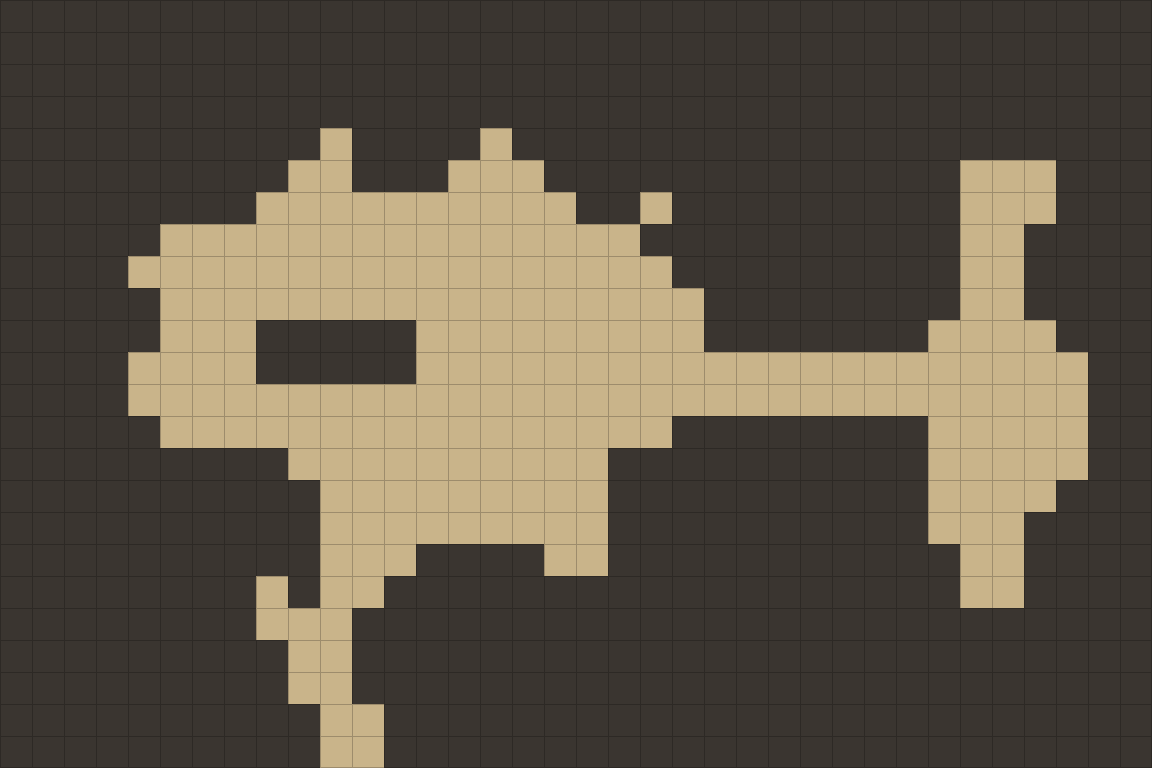
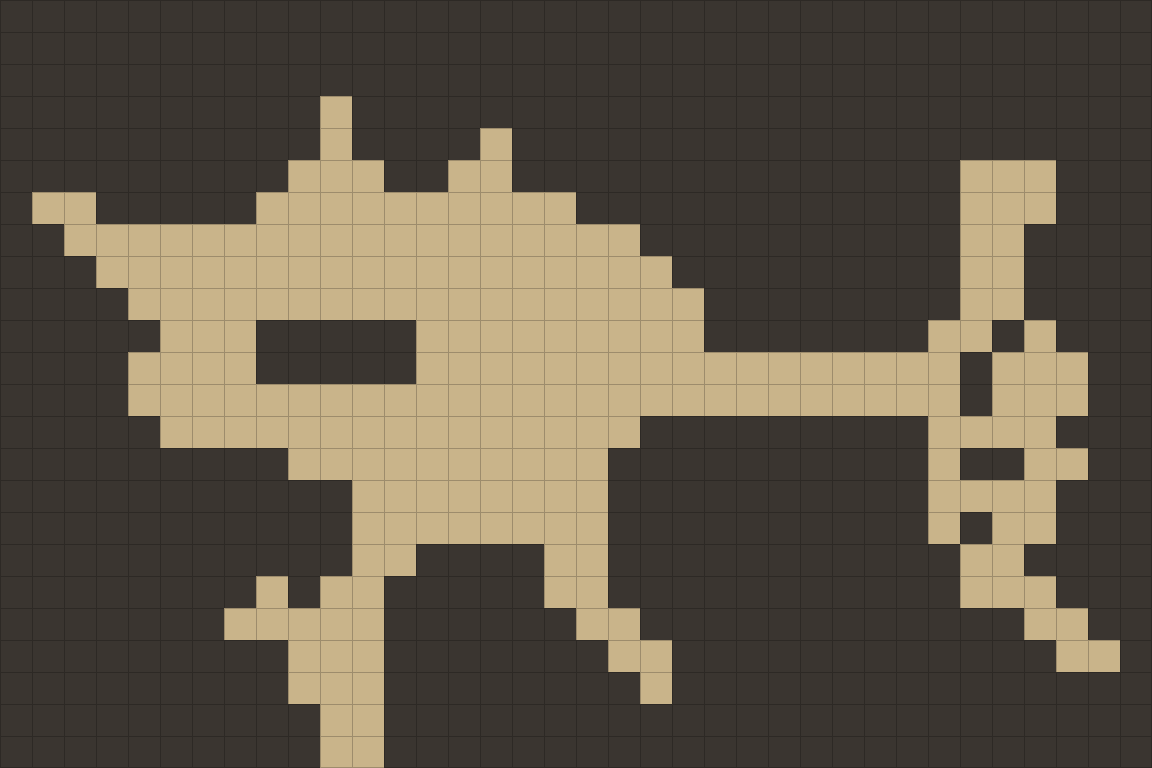
Retrace the riverside footprint against its painting (R1)
Open painted sand the grid blocked, block the cells painted solids stand
on, drop the unreachable flowerbed, and make the whole south path the exit
mouth so the riverside can enforce the edge contract. Regenerate the
riverside prompt pack from the new rows.

diff --git a/src/content/maps/riverside.ts b/src/content/maps/riverside.ts
@@ -17,65 +17,77 @@ export const RIVERSIDE_SPOTS = {
 // Ground footprints, not canopy silhouettes: the shaded lane west of the
 // banyan is open. Only its trunk/stone planter blocks passage. Coordinates
 // refer to tile centres, the same points used by feet and pointer targeting.
+// A painted solid stands on its base cell, so the practice posts, the lantern,
+// the rock and the trunk on the east bank each block one tile (R1 audit).
 const spans: readonly (readonly (readonly [number, number])[])[] = [
   [],
   [],
   [],
-  [],
+  [[10, 10]],
   [
     [10, 10],
     [15, 15],
   ],
+  // (16,5) is the garden fence in front of the north-east house.
   [
-    [9, 10],
-    [14, 16],
+    [9, 11],
+    [14, 15],
     [30, 32],
   ],
+  // The sand lane west of the square runs up to the trees at (0,6).
   [
+    [1, 2],
     [8, 17],
-    [20, 20],
     [30, 32],
   ],
   [
-    [5, 19],
+    [2, 19],
     [30, 31],
   ],
   [
-    [4, 20],
+    [3, 20],
     [30, 31],
   ],
   [
-    [5, 21],
+    [4, 21],
     [30, 31],
   ],
   [
     [5, 7],
     [13, 21],
-    [29, 32],
+    [29, 30],
+    [32, 32],
   ],
   [
     [4, 7],
-    [13, 33],
-  ],
-  [[4, 33]],
-  [
-    [5, 20],
-    [29, 33],
+    [13, 29],
+    [31, 33],
   ],
   [
-    [9, 18],
-    [29, 33],
+    [4, 29],
+    [31, 33],
   ],
   [
-    [10, 18],
+    [5, 19],
     [29, 32],
   ],
   [
-    [10, 18],
-    [29, 31],
+    [9, 18],
+    [29, 29],
+    [32, 33],
+  ],
+  // (10,15..17) is the tea garden's hedge and fence.
+  [
+    [11, 18],
+    [29, 32],
   ],
   [
-    [10, 12],
+    [11, 18],
+    [29, 29],
+    [31, 32],
+  ],
+  [
+    [11, 12],
     [17, 18],
     [30, 31],
   ],
@@ -83,11 +95,23 @@ const spans: readonly (readonly (readonly [number, number])[])[] = [
   [
     [8, 8],
     [10, 11],
-    [30, 31],
+    [17, 18],
+    [30, 32],
   ],
-  [[8, 10]],
-  [[9, 10]],
-  [[9, 10]],
+  [
+    [7, 11],
+    [18, 19],
+    [32, 33],
+  ],
+  [
+    [9, 11],
+    [19, 20],
+    [33, 34],
+  ],
+  [
+    [9, 11],
+    [20, 20],
+  ],
   [[10, 11]],
   [[10, 11]],
 ];
@@ -157,4 +181,8 @@ export const RIVERSIDE: MapDef = {
   ],
   props: [],
   restSpots: [{ pos: RIVERSIDE_SPOTS.tea, label: 'the tea porch' }],
+  // The south path is the only walkable ground on the rim; every cell of it
+  // belongs to the exit mouth in `connectAct1`.
+  edges: [{ side: 'south', span: [10, 11], treatment: 'exit' }],
+  edgeContract: 'enforce',
 };

diff --git a/src/content/riverside.test.ts b/src/content/riverside.test.ts
@@ -2,7 +2,7 @@ import { describe, expect, it } from 'vitest';
 import { CONTENT, CONTENT_BUNDLE } from './index';
 import { npcStandTiles } from './schemas';
 import { RIVERSIDE, RIVERSIDE_ENTRY, RIVERSIDE_SPOTS } from './maps/riverside';
-import { buildGrid, findPath } from '../core/rules/grid';
+import { buildGrid, findPath, tileAt } from '../core/rules/grid';
 import { createGame } from '../core/state/createGame';
 import { apply } from '../core/state/reducer';
 
@@ -93,6 +93,53 @@ describe('the riverside paths', () => {
       expect(result.state.location.pos).toEqual(pos);
       state = result.state;
     }
+  });
+  it('matches the painting: open sand is walkable and painted solids block (R1 audit)', () => {
+    const walkable = (x: number, y: number) => tileAt(grid, { x, y })?.blocked === false;
+    // The west lane, the path north of the square, the south path beside the
+    // exit, the sand pocket south of the square and the south-east bank path.
+    for (const [x, y] of [
+      [1, 6],
+      [3, 8],
+      [4, 9],
+      [10, 3],
+      [11, 5],
+      [11, 20],
+      [18, 19],
+      [20, 21],
+      [32, 18],
+      [34, 20],
+    ] as const) {
+      expect(walkable(x, y), `(${x},${y})`).toBe(true);
+    }
+    // The flowerbed island, garden fences, the rocky bank, the practice posts,
+    // and the lantern, rock and trunk on the lower east-bank lane.
+    for (const [x, y] of [
+      [20, 6],
+      [16, 5],
+      [10, 16],
+      [20, 13],
+      [31, 10],
+      [30, 11],
+      [30, 12],
+      [33, 13],
+      [30, 14],
+      [31, 14],
+      [30, 16],
+    ] as const) {
+      expect(walkable(x, y), `(${x},${y})`).toBe(false);
+    }
+  });
+  it('leaves by any cell of the south path, never by an invisible edge', () => {
+    const exit = CONTENT.maps.get(RIVERSIDE.id)?.exits?.[0];
+    const area = new Set((exit?.area ?? []).map((cell) => `${cell.x},${cell.y}`));
+    for (let y = 20; y < RIVERSIDE.height; y++) {
+      for (let x = 9; x <= 11; x++) {
+        if (tileAt(grid, { x, y })?.blocked === false)
+          expect(area.has(`${x},${y}`), `(${x},${y})`).toBe(true);
+      }
+    }
+    expect(area.has('10,19')).toBe(false);
   });
   it('returns from the shrine to the same bank, with the discovery recorded', () => {
     let state = apply(CONTENT, start(), { type: 'walkTo', pos: RIVERSIDE_SPOTS.shrine }).state;

diff --git a/src/content/maps/world.ts b/src/content/maps/world.ts
@@ -100,10 +100,12 @@ export function connectAct1(map: MapDef): MapDef {
             'ba_dan_village',
             { x: 18, y: 14 },
             'South path → Ba Dan Village',
+            // The south path from row 20 to the rim: it leaves with no tile to miss.
             [
               { x: 10, y: 20 },
-              { x: 9, y: 20 },
-              { x: 9, y: 21 },
+              ...mouth(9, [20, 21]),
+              ...mouth(10, [21, 22, 23]),
+              ...mouth(11, [20, 21, 22, 23]),
             ],
           ),
         ],

diff --git a/docs/art/prompts/maps/ba_dan_riverside.md b/docs/art/prompts/maps/ba_dan_riverside.md
@@ -18,8 +18,8 @@ The riverside neighborhood of Ba Dan, a quiet afternoon beyond the village.
 
 36 columns by 24 rows, counted from 0 at the top-left corner. The painting is the ground and what stands on it, nothing else: the game draws its own grid, movement contours, units, props and effects over it, so every edge in the painting that matters to the rules sits exactly on a tile edge.
 
-- Road (234 tiles): 233 tiles (the centre), row 4: columns 10 and 15; row 5: columns 9–10, 14–16 and 30–32; row 6: columns 8–17 and 30–32; row 7: columns 5–19 and 30–31; row 8: columns 4–20 and 30–31; row 9: columns 5–21 and 30–31; row 10: columns 5–7, 13–21 and 29–32; row 11: columns 4–7 and 13–33; row 12: columns 4–33; row 13: columns 5–20 and 29–33; row 14: columns 9–18 and 29–33; row 15: columns 10–18 and 29–32; row 16: columns 10–18 and 29–31; row 17: columns 10–12, 17–18 and 30–31; row 18: columns 8, 10–11 and 30–31; row 19: columns 8–10; rows 20–21: columns 9–10; rows 22–23: columns 10–11; one tile at column 20, row 6 (top centre).
-- Stone walls (630 tiles): 620 tiles (the centre), rows 0–3: columns 0–35; row 4: columns 0–9, 11–14 and 16–35; row 5: columns 0–8, 11–13, 17–29 and 33–35; row 6: columns 0–7, 18–19, 21–29 and 33–35; row 7: columns 0–4, 20–29 and 32–35; row 8: columns 0–3, 21–29 and 32–35; row 9: columns 0–4, 22–29 and 32–35; row 10: columns 0–4, 22–28 and 33–35; rows 11–12: columns 0–3 and 34–35; row 13: columns 0–4, 21–28 and 34–35; row 14: columns 0–8, 19–28 and 34–35; row 15: columns 0–9, 19–28 and 33–35; row 16: columns 0–9, 19–28 and 32–35; row 17: columns 0–9, 13–16, 19–29 and 32–35; row 18: columns 0–7, 9, 12–29 and 32–35; row 19: columns 0–7 and 11–35; rows 20–21: columns 0–8 and 11–35; rows 22–23: columns 0–9 and 12–35; a 5×2 block at columns 8–12, rows 10–11 (middle left).
+- Road (247 tiles): 247 tiles (the centre), row 3: column 10; row 4: columns 10 and 15; row 5: columns 9–11, 14–15 and 30–32; row 6: columns 1–2, 8–17 and 30–32; row 7: columns 2–19 and 30–31; row 8: columns 3–20 and 30–31; row 9: columns 4–21 and 30–31; row 10: columns 5–7, 13–21, 29–30 and 32; row 11: columns 4–7, 13–29 and 31–33; row 12: columns 4–29 and 31–33; row 13: columns 5–19 and 29–32; row 14: columns 9–18, 29 and 32–33; row 15: columns 11–18 and 29–32; row 16: columns 11–18, 29 and 31–32; row 17: columns 11–12, 17–18 and 30–31; row 18: columns 8, 10–11, 17–18 and 30–32; row 19: columns 7–11, 18–19 and 32–33; row 20: columns 9–11, 19–20 and 33–34; row 21: columns 9–11 and 20; rows 22–23: columns 10–11.
+- Stone walls (617 tiles): 601 tiles (the centre), rows 0–2: columns 0–35; row 3: columns 0–9 and 11–35; row 4: columns 0–9, 11–14 and 16–35; row 5: columns 0–8, 12–13, 16–29 and 33–35; row 6: columns 0, 3–7, 18–29 and 33–35; row 7: columns 0–1, 20–29 and 32–35; row 8: columns 0–2, 21–29 and 32–35; row 9: columns 0–3, 22–29 and 32–35; row 10: columns 0–4, 22–28 and 33–35; rows 11–12: columns 0–3 and 34–35; row 13: columns 0–4, 20–28 and 33–35; row 14: columns 0–8, 19–28 and 34–35; rows 15–16: columns 0–10, 19–28 and 33–35; row 17: columns 0–10, 13–16, 19–29 and 32–35; row 18: columns 0–7, 9, 12–16, 19–29 and 33–35; row 19: columns 0–6, 12–17, 20–31 and 34–35; row 20: columns 0–8, 12–18, 21–32 and 35; row 21: columns 0–8, 12–19 and 21–35; rows 22–23: columns 0–9 and 12–35; a 5×2 block at columns 8–12, rows 10–11 (middle left); a 1×2 block at column 30, rows 11–12 (middle right); a 2×1 block at columns 30–31, row 14 (middle right); one tile at column 31, row 10 (middle right); one tile at column 30, row 16 (bottom right).
 - No open ground: every tile is a feature.
 - The party enters from the left, standing at (16, 12), (15, 12), (14, 12), (14, 13), (15, 13), (16, 13); enemies come from the right. The exit is at (10, 20). Paint nothing there that would read as an object to walk round.
 
@@ -29,25 +29,25 @@ The rows as the rules read them:
 ####################################
 ####################################
 ####################################
-####################################
+##########=#########################
 ##########=####=####################
-#########==###===#############===###
-########==========##=#########===###
-#####===============##########==####
-####=================#########==####
-#####=================########==####
-#####===#####=========#######====###
-####====#####=====================##
-####==============================##
-#####================########=====##
-#########==========##########=====##
-##########=========##########====###
-##########=========##########===####
-##########===####==###########==####
-########=#==##################==####
-########===#########################
-#########==#########################
-#########==#########################
+#########===##==##############===###
+#==#####==========############===###
+##==================##########==####
+###==================#########==####
+####==================########==####
+#####===#####=========#######==#=###
+####====#####=================#===##
+####==========================#===##
+#####===============#########====###
+#########==========##########=##==##
+###########========##########====###
+###########========##########=#==###
+###########==####==###########==####
+########=#==#####==###########===###
+#######=====######==############==##
+#########===#######==############==#
+#########===########=###############
 ##########==########################
 ##########==########################
 ```

diff --git a/docs/art/riverside.md b/docs/art/riverside.md
@@ -29,3 +29,40 @@ Review at fitted zoom and zoomed in: foot sliding, readability of the two forms,
 foreground occlusion near the banyan, path-to-paint alignment, Pebble's scale,
 text contrast and the cost of the second canvas on actual iPads. The cliff and
 roof boundaries are intentionally conservative in this first art-first area.
+
+## Walkable ground against the painting (R1)
+
+The grid was re-traced against the painting cell by cell. Sand that is plainly
+open is now walkable:
+
+- the west lane (1..4, 6..9);
+- the path north of the square at (10,3) and (11,5);
+- the south path beside the exit (11,19..21);
+- the sand pocket south of the square (17..20, 18..21);
+- the south-east bank path (32..34, 16..20) and the tea deck at (7,19).
+
+A painted solid now blocks the one cell its base stands on:
+
+- the practice posts (31,10), (30,11), (30,12) and (33,13);
+- the lantern (30,14), the rock (31,14) and the trunk (30,16) on the lower
+  east-bank lane;
+- the rocky bank (20,13);
+- the garden fences (16,5) and (10,15..17);
+- the unreachable flowerbed (20,6).
+
+Canopy is still not a footprint. Every walkable cell of the south path belongs
+to the exit mouth, so the map sets `edgeContract: 'enforce'`.
+
+These blocked cells still read as open ground and need a painted stop. Paint an
+object; do not reopen the cell:
+
+- the lane north between the middle and north-east houses, (15..17, 0..3), runs
+  to the rim;
+- the lane west past (10,3) continues at (9,2) behind the north-west house
+  fence;
+- the west lane reaches the rim at (0,6);
+- the south-east bank path runs on under the canopy from (34,21);
+- the east clearing reaches the rim past the banner fence at (34..35, 12);
+- the back lane behind the north-west house, (4..5, 0..1), is unreachable, so it
+  is low priority;
+- the garden slabs west of the porch steps, (8,20) and (5..8, 21).
